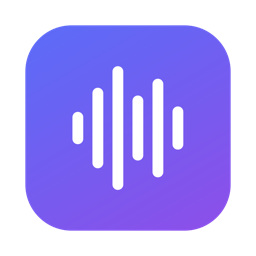
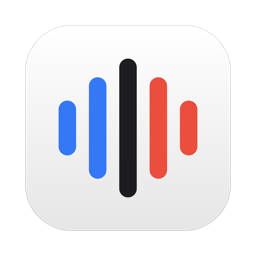
Rename the app to Aloud
It reads to you and now listens to you too, so "Read Aloud" undersold it.
Everything people see says Aloud: the app in Applications, menus, the
menu bar tooltip, permission prompts, Now Playing, and the download
(Aloud.dmg). New icon to match the website: a waveform that's blue on
the speaking side and red on the listening side.

Kept on purpose, because they're invisible and changing them would cost
people their setup: the bundle ID (permissions, settings, login item),
the ReadAloud folder in Application Support (the downloaded models), the
repo and website URL, and the Swift module name.

Installing removes the old "Read Aloud.app", and on first launch an
existing login item is re-registered so it opens Aloud.app.

FIN-870

diff --git a/docs/index.html b/docs/index.html
@@ -402,7 +402,7 @@
       <a href="#private">Privacy</a>
       <a href="#install">Install</a>
       <a href="#faq">FAQ</a>
-      <a class="btn-sm" href="https://github.com/payamrajabi/readaloud/releases/latest/download/ReadAloud.dmg">Download</a>
+      <a class="btn-sm" href="https://github.com/payamrajabi/readaloud/releases/latest/download/Aloud.dmg">Download</a>
     </nav>
   </div>
 </header>
@@ -411,7 +411,7 @@
   <div class="wrap hero">
     <h1><span>Reads to you<span class="p-read">.</span></span><span>Listens to you<span class="p-listen">.</span></span></h1>
     <p class="lede">Aloud is a small Mac menu bar app. <b>Select any text</b> and it reads it to you in a natural voice. <b>Tap a key and talk</b>, and it types what you say into any app. Both run on your Mac, so nothing you read or say goes online.</p>
-    <a class="cta" href="https://github.com/payamrajabi/readaloud/releases/latest/download/ReadAloud.dmg">
+    <a class="cta" href="https://github.com/payamrajabi/readaloud/releases/latest/download/Aloud.dmg">
       <svg viewBox="0 0 24 24" fill="none" stroke="currentColor" stroke-width="2.2" stroke-linecap="round" stroke-linejoin="round" aria-hidden="true"><path d="M12 4v11m0 0 4.5-4.5M12 15l-4.5-4.5M5 19h14"/></svg>
       Download for Mac
     </a>
@@ -598,7 +598,7 @@
         <p>Reading works the moment it opens. Dictation's model downloads quietly in the background.</p>
       </div>
       <ol class="steps">
-        <li><div><strong>Download and open the disk image</strong><span><a href="https://github.com/payamrajabi/readaloud/releases/latest/download/ReadAloud.dmg">Download it here</a>, then drag Aloud into your Applications folder.</span></div></li>
+        <li><div><strong>Download and open the disk image</strong><span><a href="https://github.com/payamrajabi/readaloud/releases/latest/download/Aloud.dmg">Download it here</a>, then drag Aloud into your Applications folder.</span></div></li>
         <li><div><strong>Open Aloud from Applications</strong><span>macOS asks once whether to open an app from the internet; click Open. The bars appear in your menu bar, with a short welcome underneath.</span></div></li>
         <li><div><strong>Allow Accessibility access</strong><span>Click Open Accessibility Settings and switch Aloud on. This lets it see the text you select and type what you dictate. It doesn't record your screen or keystrokes.</span></div></li>
         <li><div><strong>Allow the microphone the first time you dictate</strong><span>The 460 MB dictation model starts downloading shortly after first launch, so it's usually ready by then.</span></div></li>
@@ -627,7 +627,7 @@
   <div class="wrap final">
     <img src="assets/icon.svg" alt="">
     <h2>Give your eyes<br>and hands a break.</h2>
-    <a class="cta" href="https://github.com/payamrajabi/readaloud/releases/latest/download/ReadAloud.dmg">
+    <a class="cta" href="https://github.com/payamrajabi/readaloud/releases/latest/download/Aloud.dmg">
       <svg viewBox="0 0 24 24" fill="none" stroke="currentColor" stroke-width="2.2" stroke-linecap="round" stroke-linejoin="round" aria-hidden="true"><path d="M12 4v11m0 0 4.5-4.5M12 15l-4.5-4.5M5 19h14"/></svg>
       Download for Mac
     </a>

diff --git a/Sources/ReadAloud/AppDelegate.swift b/Sources/ReadAloud/AppDelegate.swift
@@ -22,6 +22,7 @@ final class AppDelegate: NSObject, NSApplicationDelegate, NSMenuDelegate {
         dictation.start()
         model.preload()
         enableLoginItemOnFirstLaunch()
+        moveLoginItemIfRenamed()
         if !DebugScript.isActive {
             if !UserDefaults.standard.bool(forKey: "didWelcome") {
                 // First launch: open the player so people see where it lives and how to start.
@@ -38,7 +39,7 @@ final class AppDelegate: NSObject, NSApplicationDelegate, NSMenuDelegate {
 
     @objc func readSelection() {
         guard SelectionReader.isTrusted else {
-            model.message = "Read Aloud needs Accessibility access to read your selection. Turn it on in System Settings → Privacy & Security → Accessibility, then try again."
+            model.message = "Aloud needs Accessibility access to read your selection. Turn it on in System Settings → Privacy & Security → Accessibility, then try again."
             showPlayer()
             SelectionReader.requestAccess()
             return
@@ -107,8 +108,8 @@ final class AppDelegate: NSObject, NSApplicationDelegate, NSMenuDelegate {
     private func setUpStatusItem() {
         statusItem = NSStatusBar.system.statusItem(withLength: 26)
         guard let button = statusItem.button else { return }
-        button.setAccessibilityLabel("Read Aloud")
-        button.toolTip = "Read Aloud — click for the player, right-click for settings"
+        button.setAccessibilityLabel("Aloud")
+        button.toolTip = "Aloud — click for the player, right-click for settings"
         button.target = self
         button.action = #selector(statusItemClicked(_:))
         button.sendAction(on: [.leftMouseUp, .rightMouseUp])
@@ -226,7 +227,7 @@ final class AppDelegate: NSObject, NSApplicationDelegate, NSMenuDelegate {
         login.state = SMAppService.mainApp.status == .enabled ? .on : .off
         menu.addItem(login)
         menu.addItem(.separator())
-        menu.addItem(NSMenuItem(title: "Quit Read Aloud", action: #selector(NSApplication.terminate(_:)), keyEquivalent: "q"))
+        menu.addItem(NSMenuItem(title: "Quit Aloud", action: #selector(NSApplication.terminate(_:)), keyEquivalent: "q"))
     }
 
     private func submenu(_ title: String, _ menu: NSMenu) -> NSMenuItem {
@@ -278,5 +279,16 @@ final class AppDelegate: NSObject, NSApplicationDelegate, NSMenuDelegate {
               !UserDefaults.standard.bool(forKey: key) else { return }
         UserDefaults.standard.set(true, forKey: key)
         try? SMAppService.mainApp.register()
+    }
+
+    /// Read Aloud.app became Aloud.app: point an existing login item at the new app.
+    private func moveLoginItemIfRenamed() {
+        let key = "loginItemPath", path = Bundle.main.bundlePath
+        guard !DebugScript.isActive, UserDefaults.standard.string(forKey: key) != path else { return }
+        UserDefaults.standard.set(path, forKey: key)
+        let service = SMAppService.mainApp
+        guard service.status == .enabled else { return }
+        try? service.unregister()
+        try? service.register()
     }
 }

diff --git a/scripts/make-icon.swift b/scripts/make-icon.swift
@@ -1,4 +1,6 @@
-// Renders the app icon (a white waveform on a blue-violet gradient) to a 1024px PNG.
+// Renders the app icon to a 1024px PNG: a waveform on a light squircle, blue on
+// the left (the Mac speaking to you), red on the right (you speaking to it).
+// Matches docs/assets/icon.svg.
 import AppKit
 
 let size: CGFloat = 1024
@@ -7,13 +9,26 @@ image.lockFocus()
 let inset: CGFloat = 100
 let rect = NSRect(x: inset, y: inset, width: size - inset * 2, height: size - inset * 2)
 let path = NSBezierPath(roundedRect: rect, xRadius: 185, yRadius: 185)
-NSGradient(colors: [NSColor(red: 0.36, green: 0.42, blue: 1.0, alpha: 1), NSColor(red: 0.58, green: 0.30, blue: 0.95, alpha: 1)])!
-    .draw(in: path, angle: -60)
-let config = NSImage.SymbolConfiguration(pointSize: 470, weight: .semibold)
-    .applying(.init(paletteColors: [.white]))
-if let symbol = NSImage(systemSymbolName: "waveform", accessibilityDescription: nil)?.withSymbolConfiguration(config) {
-    let s = symbol.size
-    symbol.draw(in: NSRect(x: (size - s.width) / 2, y: (size - s.height) / 2, width: s.width, height: s.height))
+NSGradient(colors: [NSColor(white: 0.90, alpha: 1), NSColor.white])!.draw(in: path, angle: 90)
+NSColor(white: 0, alpha: 0.12).setStroke()
+path.lineWidth = 4
+path.stroke()
+
+// Bars in the SVG's 100-unit grid (squircle spans 6…94), scaled onto the squircle.
+let unit = rect.width / 88
+let blue = NSColor(srgbRed: 0, green: 0.478, blue: 1, alpha: 1)
+let ink = NSColor(srgbRed: 0.114, green: 0.114, blue: 0.122, alpha: 1)
+let red = NSColor(srgbRed: 1, green: 0.231, blue: 0.188, alpha: 1)
+let bars: [(x: CGFloat, half: CGFloat, color: NSColor)] = [(24, 8, blue), (37, 18, blue), (50, 26, ink), (63, 18, red), (76, 8, red)]
+for bar in bars {
+    let x = inset + (bar.x - 6) * unit
+    let line = NSBezierPath()
+    line.move(to: NSPoint(x: x, y: size / 2 - bar.half * unit))
+    line.line(to: NSPoint(x: x, y: size / 2 + bar.half * unit))
+    line.lineWidth = 7.5 * unit
+    line.lineCapStyle = .round
+    bar.color.setStroke()
+    line.stroke()
 }
 image.unlockFocus()
 let rep = NSBitmapImageRep(data: image.tiffRepresentation!)!

diff --git a/Sources/ReadAloud/DictationController.swift b/Sources/ReadAloud/DictationController.swift
@@ -88,7 +88,7 @@ final class DictationController: ObservableObject {
             return
         }
         guard SelectionReader.isTrusted else {
-            show("Turn on Accessibility for Read Aloud so it can type for you.")
+            show("Turn on Accessibility for Aloud so it can type for you.")
             SelectionReader.requestAccess()
             return
         }
@@ -100,7 +100,7 @@ final class DictationController: ObservableObject {
             AVCaptureDevice.requestAccess(for: .audio) { granted in
                 DispatchQueue.main.async {
                     if granted { self.show("Microphone ready. Press \(DictationShortcut.current.short) to dictate.") }
-                    else { self.show("Read Aloud needs microphone access to dictate.") }
+                    else { self.show("Aloud needs microphone access to dictate.") }
                 }
             }
         default:
@@ -120,7 +120,7 @@ final class DictationController: ObservableObject {
             state = .recording
             return
         }
-        // Don't talk over yourself: pause Read Aloud while dictating.
+        // Don't talk over yourself: pause reading while dictating.
         resumeReadingAfter = player.isPlaying
         if resumeReadingAfter { player.pause() }
         streamer.reset()

diff --git a/Sources/ReadAloud/PlayerView.swift b/Sources/ReadAloud/PlayerView.swift
@@ -7,7 +7,7 @@ struct PlayerView: View {
     var body: some View {
         VStack(spacing: 12) {
             HStack(spacing: 10) {
-                Text(model.hasSession ? "Sentence \(model.currentIndex + 1) of \(model.chunkRanges.count)" : "Read Aloud")
+                Text(model.hasSession ? "Sentence \(model.currentIndex + 1) of \(model.chunkRanges.count)" : "Aloud")
                     .font(.caption)
                     .foregroundStyle(.secondary)
                     .monospacedDigit()
@@ -240,7 +240,7 @@ struct WelcomeView: View {
             } else {
                 VStack(alignment: .leading, spacing: 8) {
                     Label {
-                        Text("Read Aloud needs **Accessibility** access to see the text you select and type what you dictate.")
+                        Text("Aloud needs **Accessibility** access to see the text you select and type what you dictate.")
                     } icon: {
                         Image(systemName: "hand.raised.fill").foregroundStyle(.orange)
                     }

diff --git a/Sources/ReadAloud/NowPlaying.swift b/Sources/ReadAloud/NowPlaying.swift
@@ -1,7 +1,7 @@
 import AppKit
 import MediaPlayer
 
-/// Makes Read Aloud the Mac's "Now Playing" app while it's reading, so
+/// Makes Aloud the Mac's "Now Playing" app while it's reading, so
 /// AirPods taps, the keyboard's play/pause key and Control Center control it.
 ///
 /// AirPods: press once to pause/resume, twice for the next sentence,
@@ -67,7 +67,7 @@ final class NowPlaying {
         }
         var info: [String: Any] = [
             MPMediaItemPropertyTitle: model.title,
-            MPMediaItemPropertyArtist: "Read Aloud · \(model.voice.name)",
+            MPMediaItemPropertyArtist: "Aloud · \(model.voice.name)",
             MPMediaItemPropertyPlaybackDuration: model.duration,
             MPNowPlayingInfoPropertyElapsedPlaybackTime: model.position,
             // While waiting for audio the clock shouldn't run.

diff --git a/Sources/ReadAloud/PlayerModel.swift b/Sources/ReadAloud/PlayerModel.swift
@@ -28,7 +28,7 @@ final class PlayerModel: ObservableObject {
 
     /// A short title for Control Center: the opening words of the text.
     var title: String {
-        guard let first = chunks.first?.speech else { return "Read Aloud" }
+        guard let first = chunks.first?.speech else { return "Aloud" }
         return first.count > 70 ? String(first.prefix(70)).trimmingCharacters(in: .whitespaces) + "…" : first
     }
 

diff --git a/Sources/ReadAloud/DictationShortcut.swift b/Sources/ReadAloud/DictationShortcut.swift
@@ -40,7 +40,7 @@ enum DictationShortcut: String, CaseIterable {
 }
 
 /// Watches the keyboard for the dictation shortcut and ⌃⌥Esc (cancel).
-/// Needs Accessibility access (the same permission Read Aloud already uses).
+/// Needs Accessibility access (the same permission reading already uses).
 final class DictationTrigger {
     var onTap: (() -> Void)?
     var onHoldBegan: (() -> Void)?

diff --git a/README.md b/README.md
@@ -1,4 +1,4 @@
-# Read Aloud
+# Aloud
 
 A small Mac menu-bar app that reads and writes for you, entirely on your Mac.
 
@@ -24,7 +24,7 @@ locally by [Kokoro-82M](https://huggingface.co/hexgrad/Kokoro-82M) through
 
 On first launch macOS asks for **Accessibility** access. It's needed to read
 the selected text from other apps (System Settings → Privacy & Security →
-Accessibility → Read Aloud).
+Accessibility → Aloud).
 
 ## Using it
 
@@ -56,6 +56,10 @@ Accessibility → Read Aloud).
 - `PlayerModel` schedules generated sentences on an `AVAudioEngine`; speed
   changes use a time-stretch unit, so the pitch stays natural.
 
+The app was called Read Aloud before 1.2. The bundle ID, the `ReadAloud` folder in
+Application Support, this repo and the Swift module keep that name, so settings,
+permissions and downloaded models carry over.
+
 Developer builds read the model from `~/Library/Application Support/ReadAloud/models`;
 downloadable builds carry it inside the app.
 
@@ -65,7 +69,7 @@ downloadable builds carry it inside the app.
 ./scripts/release.sh 1.0.1
 ```
 
-This builds the app with the model inside, wraps it in `ReadAloud.dmg`, and
+This builds the app with the model inside, wraps it in `Aloud.dmg`, and
 uploads it as a GitHub release. The website's download button always points
 at the latest release. Notarization with Apple runs automatically once a
 Developer ID Application certificate and saved notary credentials
